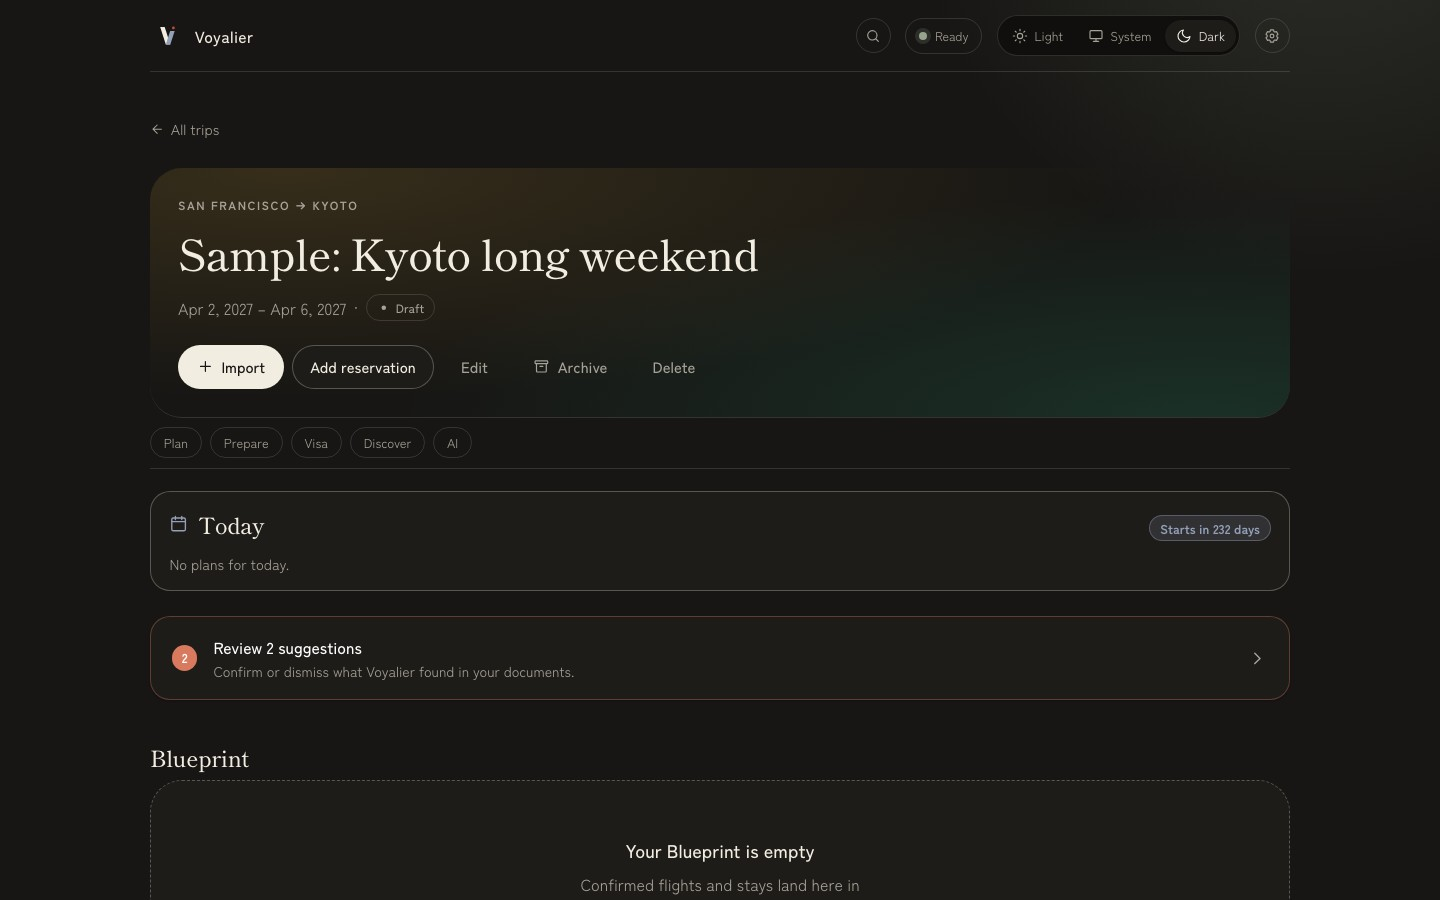
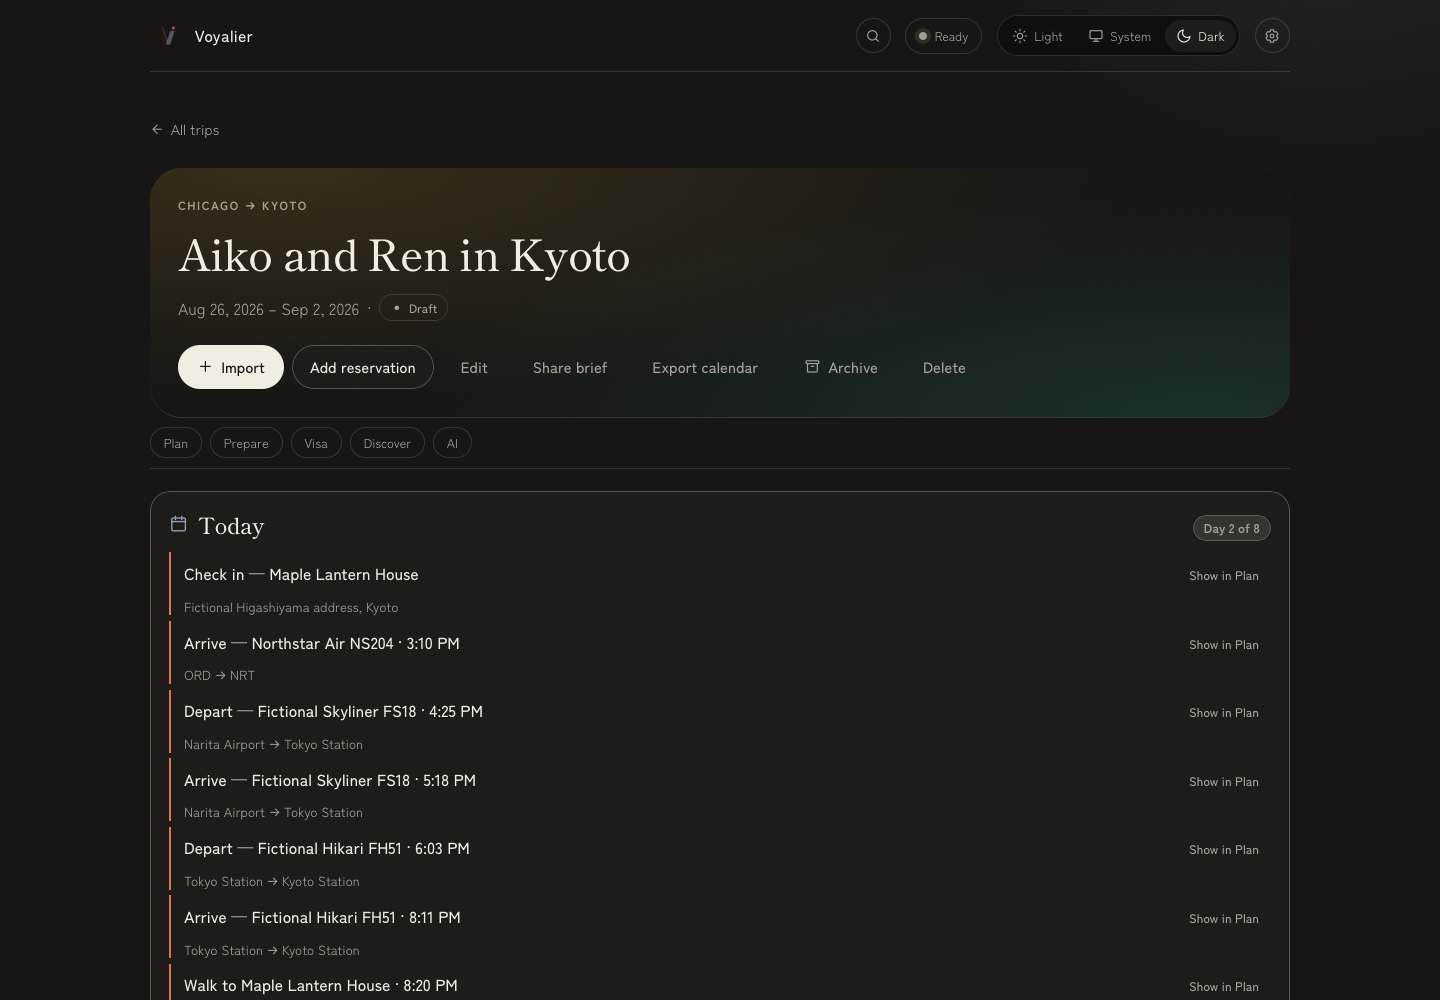
Docs: refresh the travel-day public proof
The public surface still showed an empty future Today view and stale desktop architecture, so it could not prove the continuity behavior now on main. Refresh the Quiet Transit story with current-source fictional captures, source-return and disruption boundaries, and corrected Tauri packaging notes.\n\nADR clause: documents ADR-0004 and ADR-0005 behavior without changing product, transport, storage, provider, or authority contracts.\n\nVerified with: Astro check/build; WebKit 320/375/414/768/1440 overflow checks; reduced-motion and 200% zoom probes; native Safari current-source acceptance; static request and console checks.

diff --git a/README.md b/README.md
@@ -55,24 +55,22 @@ matching installer and keeps the GitHub Releases page as a fallback.
 > source of truth for downloadable version.
 
 <p align="center">
-  <img src="docs-site/public/assets/screenshots/voyalier-trip-workspace.jpg" alt="Current-source Voyalier workspace for a fictional Kyoto trip, with Today, pending suggestions, and the Blueprint" width="1100">
+  <img src="docs-site/public/assets/screenshots/voyalier-trip-workspace.jpg" alt="Current-source Voyalier workspace for a fictional Kyoto trip on day two, with a source-linked Today schedule" width="1100">
 </p>
 
-## What changed in 0.11.0
+## What changed in 0.11.1
 
-- The consent-opened map now puts saved places ahead of suggestions, gives each
-  state its own marker and text label, and keeps the shortlist visible if
-  recommendation loading fails or the source pack is later removed.
-- Packing now shows honest progress from accepted checklist items only. You can
-  hide completed rows locally without changing or deleting them; suggestions do
-  not enter the count until you add them.
-- The redacted brief now includes surface journeys and can be copied as readable
-  plain text beside Print / Save as PDF. The copy formatter cannot name
-  confirmation codes, traveler names, imported text, resources, or private plan
-  notes, and clipboard denial is reported instead of being called success.
-- Repeated row controls now identify the record they act on, while trip creation
-  and searchable-record assembly each have one implementation rather than two
-  drifting copies.
+- Every Today row and next anchor can return to the confirmed fact or
+  traveler-authored plan that produced it. If that record has disappeared,
+  Voyalier opens Plan and says the exact target is unavailable; record ids never
+  enter URL history.
+- **If something slips** can open the confirmations behind a handoff, an exposed
+  connection, or an operator pointer. It still performs no live-status lookup,
+  predicts no delay, and makes no claim that an alternative service exists.
+- The shipped TypeScript mock now matches the Rust core across Today, city-pack
+  suggestions, field suggestions, lexical scoring, and redacted briefs. Shared
+  parity cases stay test-only, and the web gate rejects any fixture marker that
+  leaks into a production bundle.
 
 Read the [full changelog](CHANGELOG.md) for tradeoffs and intentionally unchanged
 authority boundaries.
@@ -96,14 +94,14 @@ price or opening time, or issue authoritative visa, safety, or health decisions.
 
 The useful parts work without a paid model or provider key.
 
-|                                                                    | Part of the trip             | What Voyalier does                                                                                                                                    |
-| :----------------------------------------------------------------: | ---------------------------- | ----------------------------------------------------------------------------------------------------------------------------------------------------- |
-| <img src="packages/brand/src/icon-evidence.svg" alt="" width="34"> | **Bring in evidence**        | Imports pasted text, HTML, raw email, or local files and keeps source excerpts attached to what it found.                                             |
-|  <img src="packages/brand/src/icon-review.svg" alt="" width="34">  | **Review before belief**     | Leaves extracted flights, stays, rail, coach, ferry, and hire-car details pending until you confirm, correct, or dismiss them.                        |
-|   <img src="packages/brand/src/icon-plan.svg" alt="" width="34">   | **Plan and pressure-test**   | Builds a deterministic Blueprint, finds overlaps and lodging gaps, shows Today, and makes traveler-authored activities and transfers first-class.     |
-| <img src="packages/brand/src/icon-offline.svg" alt="" width="34">  | **Prepare for weak signal**  | Keeps research, destination facts, city packs, recommendations, saved places, packing, maps, and a redacted brief available from the local workspace. |
-| <img src="packages/brand/src/icon-privacy.svg" alt="" width="34">  | **Protect the workspace**    | Stores one local SQLite workspace, seals sensitive evidence with a keychain-backed vault, supports backup and restore, and sends no telemetry.        |
-|    <img src="packages/brand/src/icon-ai.svg" alt="" width="34">    | **Ask carefully, if useful** | Offers optional on-device Ollama and previewed BYOK cloud assistance. Remote content leaves only after explicit consent.                              |
+|                                                                    | Part of the trip             | What Voyalier does                                                                                                                                          |
+| :----------------------------------------------------------------: | ---------------------------- | ----------------------------------------------------------------------------------------------------------------------------------------------------------- |
+| <img src="packages/brand/src/icon-evidence.svg" alt="" width="34"> | **Bring in evidence**        | Imports pasted text, HTML, raw email, or local files and keeps source excerpts attached to what it found.                                                   |
+|  <img src="packages/brand/src/icon-review.svg" alt="" width="34">  | **Review before belief**     | Leaves extracted flights, stays, rail, coach, ferry, and hire-car details pending until you confirm, correct, or dismiss them.                              |
+|   <img src="packages/brand/src/icon-plan.svg" alt="" width="34">   | **Plan and pressure-test**   | Builds a deterministic Blueprint, finds overlaps and lodging gaps, keeps Today linked to its source records, and makes traveler-authored plans first-class. |
+| <img src="packages/brand/src/icon-offline.svg" alt="" width="34">  | **Prepare for weak signal**  | Keeps research, destination facts, city packs, recommendations, saved places, packing, maps, and a redacted brief available from the local workspace.       |
+| <img src="packages/brand/src/icon-privacy.svg" alt="" width="34">  | **Protect the workspace**    | Stores one local SQLite workspace, seals sensitive evidence with a keychain-backed vault, supports backup and restore, and sends no telemetry.              |
+|    <img src="packages/brand/src/icon-ai.svg" alt="" width="34">    | **Ask carefully, if useful** | Offers optional on-device Ollama and previewed BYOK cloud assistance. Remote content leaves only after explicit consent.                                    |
 
 <details>
 <summary><strong>See the complete capability map</strong></summary>
@@ -127,6 +125,24 @@ The useful parts work without a paid model or provider key.
 </details>
 
 ## See the work
+
+### Travel day stays connected to the plan
+
+The Today schedule is a local projection, not a second itinerary. Each
+departure, arrival, check-in, and traveler-authored plan can open the exact
+record that produced it; the next anchor keeps the same return path. The address
+bar carries only the trip and section, never the private record target.
+
+### A disruption view names dependencies, not outcomes
+
+<p align="center">
+  <img src="docs-site/public/assets/screenshots/voyalier-disruption-plan.jpg" alt="Voyalier disruption panel for a fictional trip, showing two deterministic handoffs, exposed connections, and return-to-confirmation actions" width="1100">
+</p>
+
+Voyalier calculates handoff slack from the local times already in the plan and
+shows which later commitments depend on each leg. It can return to the evidence
+you already have; it cannot see live operations, find an alternative, or tell
+you whether a connection will work.
 
 ### The map keeps the traveler’s choice distinct
 

diff --git a/docs/superpowers/plans/2026-08-27-public-proof-refresh-0.11.1.md b/docs/superpowers/plans/2026-08-27-public-proof-refresh-0.11.1.md
@@ -31,17 +31,17 @@ surface, then publishes the backward-compatible result as v0.11.1.
 
 ## Evidence and coverage ledger
 
-| Surface or claim | Source of truth | Status | Public destination | Verification |
-| --- | --- | --- | --- | --- |
-| Local-first trip workspace | App runtime, `AGENTS.md`, storage and network tests | Shipped | README, homepage, introduction | Disposable runtime plus tests |
-| Today source return | `today.rs`, `TodayPanel`, route tests and Playwright | Candidate | README, homepage, travel-day guide | Current-source browser journey |
-| Disruption continuity | Core contingency rules, `DisruptionPanel`, E2E | Candidate | Homepage and travel-day guide | Current-source browser journey |
-| Mock-mode conformance | Shared parity goldens and both-language tests | Candidate, internal trust | Architecture/release notes only | Focused parity plus full gate |
-| macOS Apple Silicon download | v0.11.0 release pattern and release workflow | Shipped; v0.11.1 pending | README, homepage, download guide | Anonymous artifact and checksum verification |
-| Windows x64 downloads | v0.11.0 release pattern and release workflow | Shipped; v0.11.1 pending | README, homepage, download guide | Installed acceptance, artifacts, checksums |
-| Updater authenticity | Tauri config, protected workflow, signatures | Shipped | Download/update guides | `latest.json`, signatures, exact artifact bindings |
-| Platform publisher identity | Installer metadata and public install guidance | Unavailable | Download, troubleshooting, release notes | Artifact inspection and first-launch copy |
-| Screenshots | Disposable current-source workspace | Candidate | README and homepage | Deterministic capture and visual inspection |
+| Surface or claim             | Source of truth                                      | Status                    | Public destination                       | Verification                                       |
+| ---------------------------- | ---------------------------------------------------- | ------------------------- | ---------------------------------------- | -------------------------------------------------- |
+| Local-first trip workspace   | App runtime, `AGENTS.md`, storage and network tests  | Shipped                   | README, homepage, introduction           | Disposable runtime plus tests                      |
+| Today source return          | `today.rs`, `TodayPanel`, route tests and Playwright | Candidate                 | README, homepage, travel-day guide       | Current-source browser journey                     |
+| Disruption continuity        | Core contingency rules, `DisruptionPanel`, E2E       | Candidate                 | Homepage and travel-day guide            | Current-source browser journey                     |
+| Mock-mode conformance        | Shared parity goldens and both-language tests        | Candidate, internal trust | Architecture/release notes only          | Focused parity plus full gate                      |
+| macOS Apple Silicon download | v0.11.0 release pattern and release workflow         | Shipped; v0.11.1 pending  | README, homepage, download guide         | Anonymous artifact and checksum verification       |
+| Windows x64 downloads        | v0.11.0 release pattern and release workflow         | Shipped; v0.11.1 pending  | README, homepage, download guide         | Installed acceptance, artifacts, checksums         |
+| Updater authenticity         | Tauri config, protected workflow, signatures         | Shipped                   | Download/update guides                   | `latest.json`, signatures, exact artifact bindings |
+| Platform publisher identity  | Installer metadata and public install guidance       | Unavailable               | Download, troubleshooting, release notes | Artifact inspection and first-launch copy          |
+| Screenshots                  | Disposable current-source workspace                  | Candidate                 | README and homepage                      | Deterministic capture and visual inspection        |
 
 Unsupported metrics, autonomous behavior, background monitoring, commercial
 availability claims, and future-platform download claims remain excluded.

diff --git a/docs-site/design.md b/docs-site/design.md
@@ -1,6 +1,6 @@
 # Quiet Transit — Voyalier public design system
 
-Status: locked on 2026-08-02; evidence-register amendment on 2026-08-13
+Status: locked on 2026-08-02; travel-day continuity amendment on 2026-08-27
 Scope: marketing landing page, Starlight documentation, public diagrams, social
 preview, and README presentation.
 
@@ -26,13 +26,15 @@ engine, or an AI oracle.
   destinations. Previous public footer was Ft5.
 - Hero: **H2 Split Diptych** — 7/5 copy-to-proof ratio, real screenshot, hairline
   divider, no fake application chrome.
-- Product tour: **F2 Sticky-scroll Stack** — left-pinned explanation, three
+- Product tour: **F2 Sticky-scroll Stack** — left-pinned explanation, five
   current screenshots in reading order.
 - Downloads: **F6 Product Card Grid** — 3-up, landscape, uniform products, one
   primary action per platform.
 - Signature: a folded-route evidence register carries
-  `source → review → plan → return` through the page. Each stop names the trust
-  state and continuity promise; it is wayfinding, not ambient art.
+  `source → review → plan → return` through the page. Today and disruption views
+  close the loop by returning to the local record that produced the projection.
+  Each stop names the trust state and continuity promise; it is wayfinding, not
+  ambient art.
 
 ## Voice
 
@@ -99,7 +101,9 @@ fallback and exposes a readable status; it never leaves a dead control.
 ## Brand and imagery
 
 Keep the existing folded-route logo and app icon. Product UI is shown only with
-real screenshots from the disposable sample workspace. Do not redraw browser,
+real screenshots from a disposable fictional workspace. Travel-day captures
+must show populated local projections and no personal data; disruption captures
+must preserve the panel's non-predictive language. Do not redraw browser,
 desktop, or terminal chrome. Diagrams share one stroke family, charcoal/ivory
 surfaces, indigo structure, and one vermilion waypoint.
 

diff --git a/apps/desktop/README.md b/apps/desktop/README.md
@@ -1,10 +1,24 @@
 # Voyalier desktop shell
 
-Tauri 2 wraps the same React application and starts the local Axum API in-process. It is intentionally thin: product behavior belongs in `voyalier-core`.
+Tauri 2 wraps the same React application and exposes `AppService` through direct
+IPC. It does not start Axum or bind a TCP port in release mode. The adapter is
+intentionally thin: product behavior belongs in `voyalier-core` or
+`voyalier-app`, never in a Tauri command.
 
 ```bash
 pnpm --filter @voyalier/desktop desktop:dev
 pnpm --filter @voyalier/desktop desktop:build
 ```
 
-The foundation build uses a fixed loopback port. Random authenticated session ports, vault integration, signing, notarization, and update artifacts are release gates before public beta.
+Release builds use the platform data directory for the local SQLite workspace,
+the OS keychain for vault and BYOK secrets, and the same versioned gateway
+contract as the browser-source adapter. Backup and restore use native file
+pickers; updater downloads must pass Voyalier's signature check before install.
+
+Published desktop packages currently target Apple Silicon on macOS 13 or newer
+and x64 Windows. They include updater signatures, checksums, and GitHub artifact
+attestations, but they do not yet have paid platform publisher identity: macOS
+is not notarized, and Windows may show SmartScreen. See the
+[release checklist](../../docs/release/RELEASE_CHECKLIST.md) and
+[update-key runbook](../../docs/security/UPDATE_KEY_RUNBOOK.md) before changing
+packaging or release behavior.
